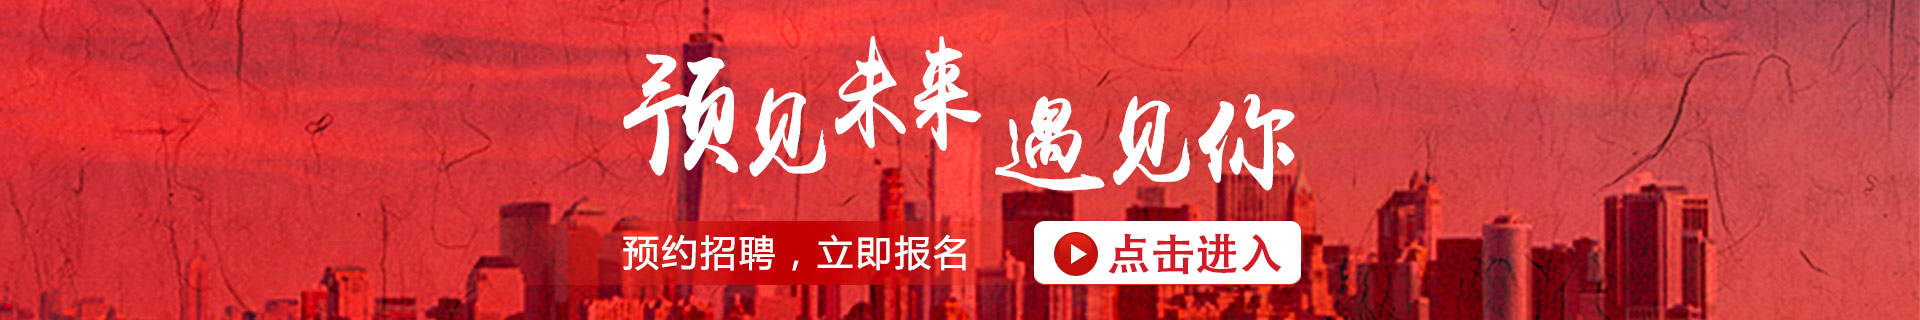
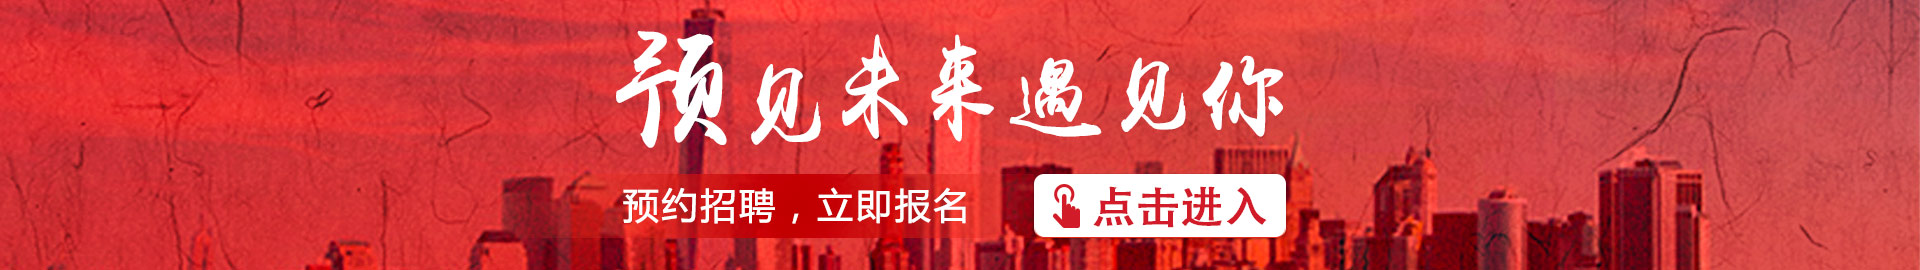
修改图片

diff --git a/views/act_form.html b/views/act_form.html
@@ -236,7 +236,7 @@
   }
 .act_form_diye {
   width:100%;
-  height:320px;
+  height:270px;
   background-image: url({{helper.cdnhost}}/assets/img/diditu.jpg);background-repeat: no-repeat;background-size: cover;text-align: center;color: #fff;font-size: 20px;background-position: center 0;
 }
   .act_form_tu_xion {
